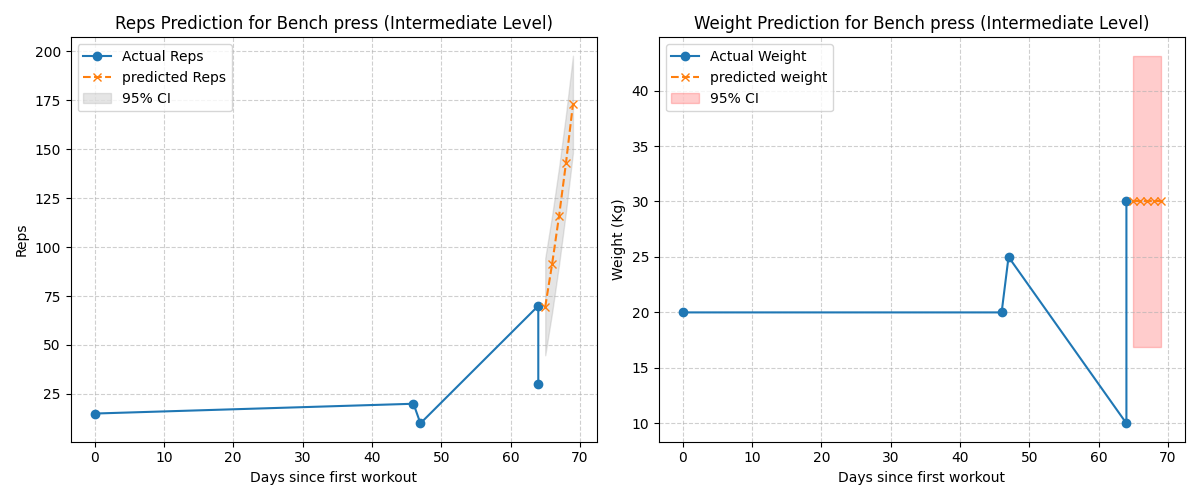
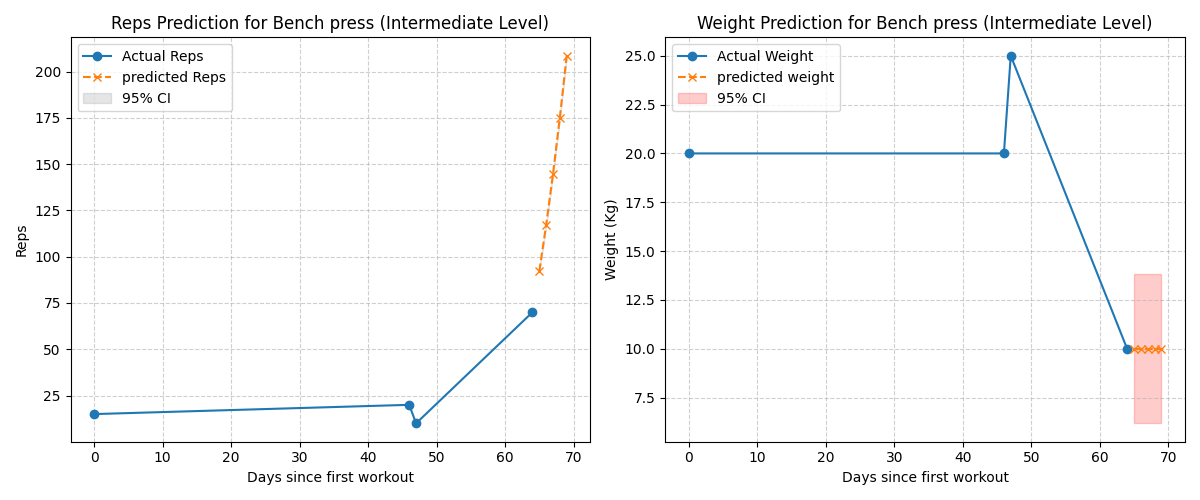
b

diff --git a/predictor.py b/predictor.py
@@ -98,15 +98,10 @@ def predict_targets(dates, reps, weights=None, exercise_name="bench press", user
        max_reps = max(400, int(last_reps * 2))
 
        future_reps = np.maximum(future_reps, last_reps)
-       if len(reps) > 5:
-           growth_rate = (reps[-1] - max(reps[-5], 1)) / 5
-        
-       else: 
-           growth_rate = reps[-1] - reps[0]
-       slope_boost = 1.5
+       poly_slopes = np.gradient(future_reps)
        for i in range(1, len(future_reps)):
            if future_reps[i] < future_reps[i-1]:
-               future_reps[i] = future_reps[i-1] + growth_rate * slope_boost
+               future_reps[i] = future_reps[i-1] + max(poly_slopes[i], 1) * 1.5
        future_reps = np.clip(future_reps, last_reps, max_reps)
       
        return days, future_days, future_reps, None, reps_ci, None, user_level
